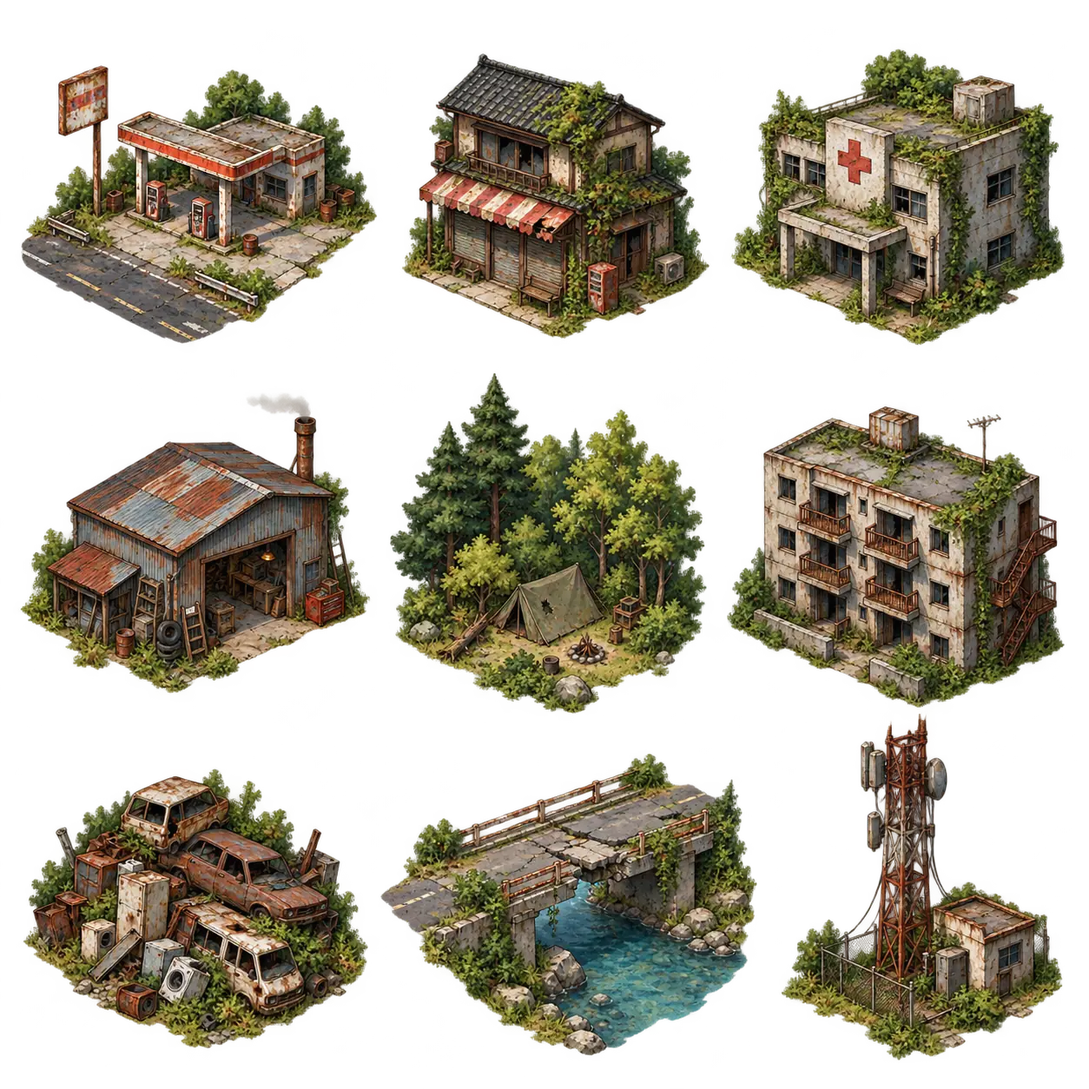
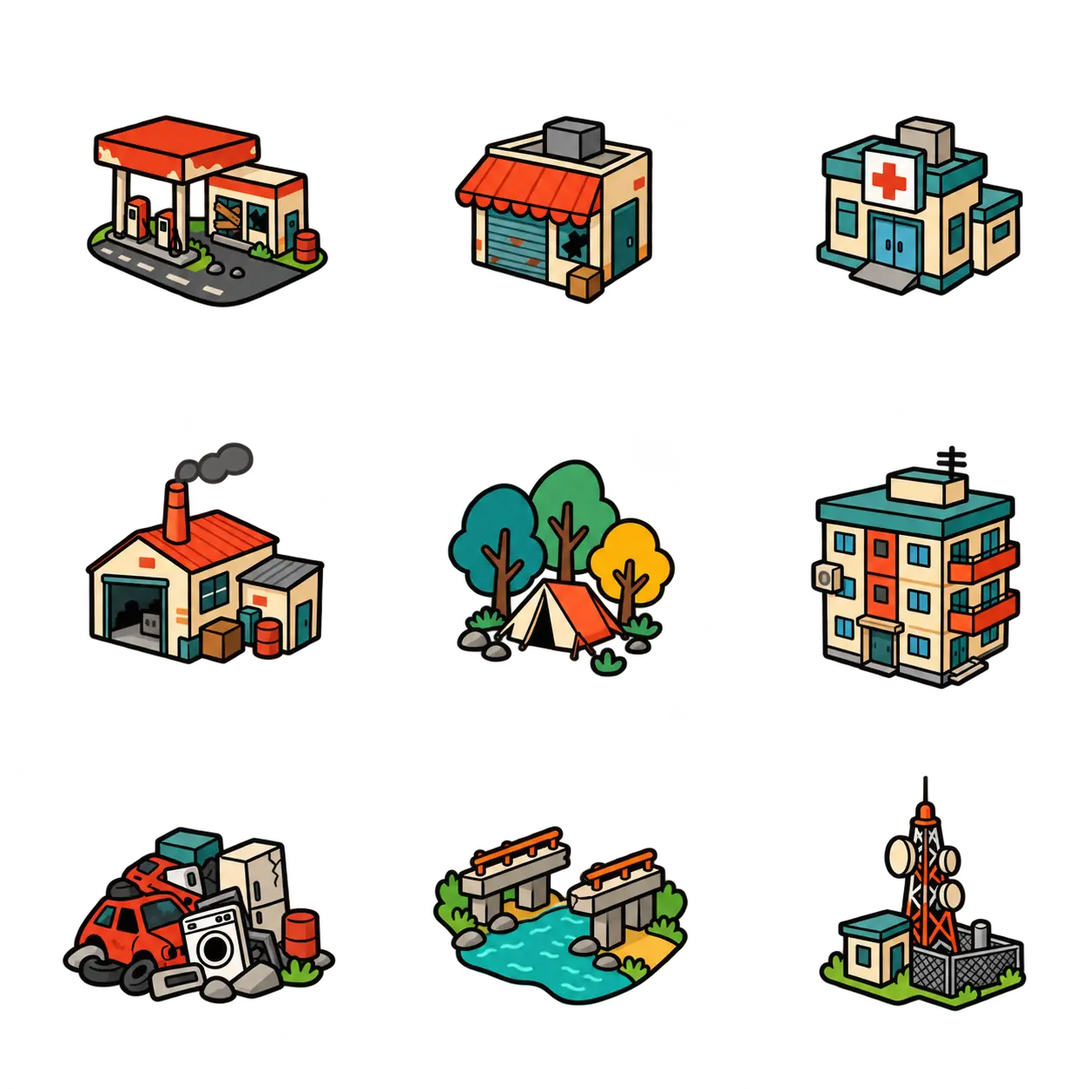
Restore requested bold toon art style across all generated game assets (0.1.4)

diff --git a/styles/art.css b/styles/art.css
@@ -1,11 +1,11 @@
-.painted-atlas{display:block;background-repeat:no-repeat;flex-shrink:0}.symbol-icon{display:inline-flex;justify-content:center;align-items:center;font-family:system-ui,sans-serif;font-size:21px;font-weight:500;line-height:1}.painted-van-icon{background:url('../assets/art/van.webp') center/contain no-repeat}
-.brand>.painted-van-icon{padding:0;background-image:url('../assets/art/van.webp');background-size:contain;background-repeat:no-repeat;background-position:center}.scene-story{display:none}
+.painted-atlas{display:block;background-repeat:no-repeat;flex-shrink:0}.symbol-icon{display:inline-flex;justify-content:center;align-items:center;font-family:system-ui,sans-serif;font-size:21px;font-weight:500;line-height:1}.painted-van-icon{background:url('../assets/art/van.webp?v=0.1.4') center/contain no-repeat}
+.brand>.painted-van-icon{padding:0;background-image:url('../assets/art/van.webp?v=0.1.4');background-size:contain;background-repeat:no-repeat;background-position:center}.scene-story{display:none}
 .painted-character{display:block;position:relative;aspect-ratio:2/3;isolation:isolate;filter:drop-shadow(0 4px 4px #152c2344)}.painted-character .outfit{position:absolute;inset:0;z-index:2}.held-weapon{position:absolute;z-index:1;pointer-events:none}.painted-character.portrait{height:calc(100% - 18px);width:auto;margin:0 auto}.portrait-frame:before{display:none}.portrait-frame{background:radial-gradient(ellipse at center,#849b7755,transparent 72%)}
 .painted-scene{position:relative;overflow:hidden;width:100%;height:100%;min-height:150px;isolation:isolate}.scene-backdrop{position:absolute;inset:0;container-type:size;overflow:hidden}.scene-background{position:absolute;width:max(100cqw,177.78cqh);height:max(56.25cqw,100cqh);left:50%;top:50%;transform:translate(-50%,-50%)}.scene-shade{position:absolute;inset:45% 0 0;background:linear-gradient(transparent,#162b2340)}
 .scene-player{position:absolute;bottom:9%;height:74%;max-height:300px;aspect-ratio:2/3;z-index:3}.scene-player>.painted-character{height:100%;width:100%}.scene-van{position:absolute;right:6%;bottom:10%;width:42%;z-index:2}.painted-van{display:block;position:relative;filter:drop-shadow(0 5px 5px #102b2444)}.painted-van>img{width:100%;height:auto;display:block}.van-upgrades{position:absolute;left:8%;bottom:0;display:flex;gap:3px;padding:3px 5px;border-radius:5px;background:#20352cdb;color:#f4edd2}.van-upgrades .icon{width:16px;height:16px;font-size:15px}.camp-art .scene-van{width:58%;right:2%;bottom:8%}.camp-art .scene-player{left:10%;height:76%}.scene-enemy{position:absolute;bottom:9%;height:74%;aspect-ratio:1;max-height:300px;z-index:3}.scene-enemy .painted-enemy{width:100%;height:100%}.combat-art .scene-player{bottom:19%;height:74%}.combat-art .scene-enemy{bottom:19%;height:74%}
-.item-art{width:58px;height:87px;aspect-ratio:2/3;object-fit:contain}.armor-art{display:block;position:relative;width:62px;height:85px;overflow:hidden;flex-shrink:0}.armor-outfit{position:absolute;aspect-ratio:2/3;width:100%;height:auto}.head-gear .armor-outfit{width:135px;height:202.5px;left:-37px;top:-4px}.body-gear .armor-outfit{width:90px;height:135px;left:-14px;top:-27px}.item-head{min-height:90px}.item-head .item-art{background-color:transparent}
+.item-art{width:58px;height:87px;aspect-ratio:2/3;object-fit:contain}.armor-art{display:block;position:relative;width:62px;height:85px;overflow:hidden;flex-shrink:0}.armor-outfit{position:absolute;aspect-ratio:2/3;width:100%;height:auto}.head-gear .armor-outfit{width:90px;height:135px;left:-14px;top:-2px}.body-gear .armor-outfit{width:90px;height:135px;left:-14px;top:-73px}.item-head{min-height:90px}.item-head .item-art{background-color:transparent}
 .card-illustration{width:100%;aspect-ratio:1;border-radius:5px}.action-card .card-art{padding:0;margin:5px 0;height:55px;overflow:hidden;border-radius:5px}.action-card .card-illustration{height:55px;width:55px}.intent-card .card-art{padding:0;height:27px;margin:3px 0;overflow:hidden;border-radius:3px}.intent-card .card-illustration{height:27px;width:27px}
-.world-map.terrain-map{position:relative;padding:0;overflow:hidden;background:#d9d6b6}.region-map.painted-map{position:relative;width:100%;height:195px;max-height:none;min-height:170px;background:url('../assets/art/terrain.webp') center/cover no-repeat}.map-roads{position:absolute;inset:0;width:100%;height:100%;pointer-events:none}.painted-map .map-node{position:absolute;width:104px;height:65px;min-height:0;padding:0;transform:translate(-50%,-45%);display:flex;flex-direction:column;align-items:center;justify-content:flex-end;background:none;border:0;border-radius:12px;opacity:1;gap:0;font-size:14px;font-weight:700;z-index:2;line-height:1.3;cursor:default}.painted-map .map-node:disabled{opacity:1}.painted-map .map-node.reachable{cursor:pointer}.painted-map .map-node:hover{transform:translate(-50%,-45%)}.painted-map .map-node.reachable:hover,.painted-map .map-node:focus-visible{background:#fff0ae55;box-shadow:0 0 0 2px #a87536}.painted-map .landmark{width:60px;height:60px;position:absolute;bottom:14px;left:22px;filter:drop-shadow(0 2px 2px #233b2860)}.painted-map .map-label{display:block;max-width:104px;padding:2px 6px;background:#f5eed6eF;border:1px solid #91a277;border-radius:5px;z-index:1;font-size:14px;color:#37573e;overflow:hidden;white-space:nowrap;text-overflow:ellipsis;line-height:1.2}.painted-map .current .map-label{background:#365f47;color:#fff4d5;border-color:#f0d884}.painted-map .unknown .map-label{font-size:14px;color:#607357;background:#e0e4c6e0}.unseen-mark{font-size:24px;color:#5a7355;background:#d5dcc088;width:30px;border-radius:50%;text-align:center;position:absolute;bottom:21px;left:37px}.location-pin{position:absolute;top:-2px;left:46px;width:12px;height:12px;border-radius:50%;background:#edc466;border:2px solid #365b3e}.home-pin{position:absolute;top:10px;right:11px;font-size:17px;color:#624d29;background:#f4d78c;border-radius:4px;width:21px;height:21px;line-height:1.2}.map-north{position:absolute;right:8px;top:5px;color:#354f36;font-size:13px;font-weight:700}
+.world-map.terrain-map{position:relative;padding:0;overflow:hidden;background:#d9d6b6}.region-map.painted-map{position:relative;width:100%;height:195px;max-height:none;min-height:170px;background:url('../assets/art/terrain.webp?v=0.1.4') center/cover no-repeat}.map-roads{position:absolute;inset:0;width:100%;height:100%;pointer-events:none}.painted-map .map-node{position:absolute;width:104px;height:65px;min-height:0;padding:0;transform:translate(-50%,-45%);display:flex;flex-direction:column;align-items:center;justify-content:flex-end;background:none;border:0;border-radius:12px;opacity:1;gap:0;font-size:14px;font-weight:700;z-index:2;line-height:1.3;cursor:default}.painted-map .map-node:disabled{opacity:1}.painted-map .map-node.reachable{cursor:pointer}.painted-map .map-node:hover{transform:translate(-50%,-45%)}.painted-map .map-node.reachable:hover,.painted-map .map-node:focus-visible{background:#fff0ae55;box-shadow:0 0 0 2px #a87536}.painted-map .landmark{width:60px;height:60px;position:absolute;bottom:14px;left:22px;filter:drop-shadow(0 2px 2px #233b2860)}.painted-map .map-label{display:block;max-width:104px;padding:2px 6px;background:#f5eed6eF;border:1px solid #91a277;border-radius:5px;z-index:1;font-size:14px;color:#37573e;overflow:hidden;white-space:nowrap;text-overflow:ellipsis;line-height:1.2}.painted-map .current .map-label{background:#365f47;color:#fff4d5;border-color:#f0d884}.painted-map .unknown .map-label{font-size:14px;color:#607357;background:#e0e4c6e0}.unseen-mark{font-size:24px;color:#5a7355;background:#d5dcc088;width:30px;border-radius:50%;text-align:center;position:absolute;bottom:21px;left:37px}.location-pin{position:absolute;top:-2px;left:46px;width:12px;height:12px;border-radius:50%;background:#edc466;border:2px solid #365b3e}.home-pin{position:absolute;top:10px;right:11px;font-size:17px;color:#624d29;background:#f4d78c;border-radius:4px;width:21px;height:21px;line-height:1.2}.map-north{position:absolute;right:8px;top:5px;color:#354f36;font-size:13px;font-weight:700}
 @media(min-width:721px) and (max-width:1100px){.painted-map .map-node{width:76px;height:58px}.painted-map .landmark{left:13px;width:50px;height:50px}.painted-map .map-label{max-width:76px}.painted-map .unseen-mark{left:23px}.painted-map .location-pin{left:32px}.painted-map .home-pin{right:1px}.region-map.painted-map{height:175px}}
 @media(max-width:720px){.scene-player{height:65%;left:7%!important;bottom:11%}.scene-van{width:54%;right:1%;bottom:13%}.scene-enemy{height:62%;right:3%!important}.camp-art .scene-van{width:65%}.camp-art .scene-player{height:60%}.combat-art .scene-player{height:61%;bottom:21%}.combat-art .scene-enemy{height:60%;bottom:21%}.painted-map .map-node{width:66px;height:61px}.painted-map .map-label{font-size:14px;max-width:68px;padding:2px 3px}.painted-map .landmark{width:49px;height:49px;left:8px;bottom:17px}.painted-map .unseen-mark{left:18px}.painted-map .location-pin{left:27px}.painted-map .home-pin{right:0;top:11px}.region-map.painted-map{height:240px;min-height:240px}.map-wrap:not(.open) .painted-map{display:none}.action-card .card-art{height:61px}.item-art{width:58px;height:87px}.armor-art{width:62px;height:85px}}
 .intent-card .card-top{padding-left:17px;justify-content:flex-end}.resource-icon{background-color:transparent}

diff --git a/src/art.js b/src/art.js
@@ -11,17 +11,18 @@ export function icon(name,cls='') {
 export const locationKinds=['road','shop','clinic','factory','forest','apart','junk','river','tower'];
 function atlas(file,col,row,cols,rows,cls='',label='',style='') {
   const x=cols>1?col/(cols-1)*100:0,y=rows>1?row/(rows-1)*100:0;
-  return `<span class="painted-atlas ${cls}" ${label?`role="img" aria-label="${e(label)}"`:'aria-hidden="true"'} style="background-image:url('./assets/art/${file}.webp');background-size:${cols*100}% ${rows*100}%;background-position:${x}% ${y}%;${style}"></span>`;
+  return `<span class="painted-atlas ${cls}" ${label?`role="img" aria-label="${e(label)}"`:'aria-hidden="true"'} style="background-image:url('./assets/art/${file}.webp?v=0.1.4');background-size:${cols*100}% ${rows*100}%;background-position:${x}% ${y}%;${style}"></span>`;
 }
 const weaponKinds=['broom','knife','pipe','axe','umbrella','shovel'];
 export function weaponArt(item={visual:'broom'},{held=false}={}) {
   const index=Math.max(0,weaponKinds.indexOf(item.visual));
   // Measured grip positions keep a held tool attached while its size changes.
-  const grips={broom:.39,knife:.6,pipe:.54,axe:.65,umbrella:.8,shovel:.5};
+  const grips={broom:.39,knife:.73,pipe:.54,axe:.65,umbrella:.74,shovel:.45};
+  const gripX={broom:.57,knife:.50,pipe:.56,axe:.61,umbrella:.50,shovel:.54};
   const sizes={broom:.8,knife:.42,pipe:.78,axe:.62,umbrella:.78,shovel:.85};
   const size=sizes[item.visual]||.8,long=item.modifiers?.includes('long')?1.12:1;
-  const height=size*long*100,top=50-(grips[item.visual]||.5)*height;
-  return atlas('weapons',index%3,Math.floor(index/3),3,2,held?'held-weapon':'item-art',held?'':item.name||'武器',held?`height:${height}%;width:${height}%;top:${top}%;left:${88-height/2}%;`:'');
+  const height=size*long*100,top=68-(grips[item.visual]||.5)*height;
+  return atlas('weapons',index%3,Math.floor(index/3),3,2,held?'held-weapon':'item-art',held?'':item.name||'武器',held?`height:${height}%;width:${height}%;top:${top}%;left:${88-(gripX[item.visual]||.5)*height}%;`:'');
 }
 function outfitIndex(head,body) {
   const row=head?.visual==='helmet'?1:head?.visual==='goggles'?2:0;
@@ -42,7 +43,7 @@ export function enemyArt(type) {
   return atlas('enemies',index,0,3,1,`painted-enemy ${type}`,type==='dog'?'野犬':type==='robot'?'保守ロボット':'敵の拾荒者');
 }
 export function vanArt(state) {
-  return `<span class="painted-van" role="img" aria-label="移動拠点スズメ号、${state.modules.length}設備"><img src="./assets/art/van.webp" alt="" decoding="async">${state.modules.length?`<span class="van-upgrades" aria-hidden="true">${state.modules.map(id=>icon({bed:'bed',storage:'bag',filter:'water',workbench:'gear',engine:'action'}[id])).join('')}</span>`:''}</span>`;
+  return `<span class="painted-van" role="img" aria-label="移動拠点スズメ号、${state.modules.length}設備"><img src="./assets/art/van.webp?v=0.1.4" alt="" decoding="async">${state.modules.length?`<span class="van-upgrades" aria-hidden="true">${state.modules.map(id=>icon({bed:'bed',storage:'bag',filter:'water',workbench:'gear',engine:'action'}[id])).join('')}</span>`:''}</span>`;
 }
 export function landmarkArt(kind) {
   const i=Math.max(0,locationKinds.indexOf(kind));

diff --git a/src/main.js b/src/main.js
@@ -128,7 +128,7 @@ function render() {
   else if(tab==='inventory'){main=inventoryMain();controls=inventoryControls();}
   else if(tab==='journal'){main=journalMain();controls=exploreControls();}
   else {main=exploreMain();controls=exploreControls();}
-  app.innerHTML=`<div class="game-shell ${state.combat?'combat-mode':''}">${header()}${navigation()}<div class="mobile-hud">${gauges(currentActor(),true)}${abilityTiles(currentActor())}</div>${saveError?`<div class="save-warning" role="alert">${e(saveError)}</div>`:''}<div class="game-layout">${survivor()}${main}${controls}</div><footer class="footer"><span>走る家と、終わった世界。</span><span>EARLY BUILD 0.1.3 · ${state.region}つ目の街</span></footer>${state.combat&&!state.combat.result?`<div class="mobile-combat-dock"><span>${state.combat.plan.length} / ${state.combat.limits.action} 行動<small>${playing?'解決中':'距離 '+shownBattle().distance}</small></span>${state.combat.resolved?button('nextRound','次のラウンドへ',{cls:'primary',disabled:playing}):button('resolve',playing?'解決中…':'この行動列で実行',{cls:'primary',disabled:playing||!state.combat.plan.length})}</div>`:''}</div>`;
+  app.innerHTML=`<div class="game-shell ${state.combat?'combat-mode':''}">${header()}${navigation()}<div class="mobile-hud">${gauges(currentActor(),true)}${abilityTiles(currentActor())}</div>${saveError?`<div class="save-warning" role="alert">${e(saveError)}</div>`:''}<div class="game-layout">${survivor()}${main}${controls}</div><footer class="footer"><span>走る家と、終わった世界。</span><span>EARLY BUILD 0.1.4 · ${state.region}つ目の街</span></footer>${state.combat&&!state.combat.result?`<div class="mobile-combat-dock"><span>${state.combat.plan.length} / ${state.combat.limits.action} 行動<small>${playing?'解決中':'距離 '+shownBattle().distance}</small></span>${state.combat.resolved?button('nextRound','次のラウンドへ',{cls:'primary',disabled:playing}):button('resolve',playing?'解決中…':'この行動列で実行',{cls:'primary',disabled:playing||!state.combat.plan.length})}</div>`:''}</div>`;
   paintMap(app.querySelector('.painted-map'),state);
 }
 function openDialog(title,body) {

diff --git a/index.html b/index.html
@@ -6,12 +6,12 @@
   <meta name="theme-color" content="#192b2c">
   <meta name="description" content="終わった世界を、拾ったガラクタと小さな移動拠点で生き延びる。探索とカード戦闘のサバイバルゲーム。">
   <title>拾荒者クロニクル — 走る家と、終わった世界</title>
-  <link rel="icon" href="./assets/art/van.webp" type="image/webp">
+  <link rel="icon" href="./assets/art/van.webp?v=0.1.4" type="image/webp">
   <link rel="stylesheet" href="./styles/game.css">
   <link rel="stylesheet" href="./styles/layout.css">
   <link rel="stylesheet" href="./styles/improvements.css">
   <link rel="stylesheet" href="./styles/readability.css">
-  <link rel="stylesheet" href="./styles/art.css">
+  <link rel="stylesheet" href="./styles/art.css?v=0.1.4">
 </head>
 <body>
   <div id="app"><p class="boot">走る家を準備しています…</p></div>

diff --git a/docs/art-assets.md b/docs/art-assets.md
@@ -1,111 +1,118 @@
-# 0.1.3 生成画像素材
+# 0.1.4 トゥーン系の生成画像素材
 
-組み込みの画像生成ツールで作成。画像の絵柄・差分は生成ツールで制作し、WebPへの形式変換だけImageMagickで実施。透明素材のアルファは維持しています。元の生成PNGは編集していません。
+組み込みの画像生成ツール（built-in imagegen）で制作。元のPNGを編集せず、配信用WebPへの形式変換だけImageMagickで実施。透明素材のアルファを維持。
+
+## 絵柄の必須条件
+
+ユーザー指定のパワーパフガールズ風のトゥーン系が制作基準。オリジナルのキャラクターを、大きな丸い頭と目、短い手足、太い黒輪郭、単純な色面で表現。背景も大きな幾何形状で整理。水彩・写実・通常のアニメ体型・3Dへ変更しない。絵柄を別の雰囲気に置き換える解釈をしない。
+
+## 最終素材
+
+| 配信用ファイル | 生成PNG |
+|---|---|
+| `assets/art/backgrounds.webp` | `/workspace/scratch/9c8a2d707cd7/generated_images/exec-a07e32f8-ad97-4b34-8bc9-dc43960efbaf.png` |
+| `assets/art/player-outfits.webp` | `/workspace/scratch/9c8a2d707cd7/generated_images/exec-f5a6f354-ab24-4186-b794-79f2ccde0563.png` |
+| `assets/art/weapons.webp` | `/workspace/scratch/9c8a2d707cd7/generated_images/exec-3cf05ad6-7b8e-4208-a630-0ae55f14d549.png` |
+| `assets/art/enemies.webp` | `/workspace/scratch/9c8a2d707cd7/generated_images/exec-36ca27c6-d81d-429a-bc9d-82ffbed7bfdb.png` |
+| `assets/art/van.webp` | `/workspace/scratch/9c8a2d707cd7/generated_images/exec-472ddf07-27f1-4514-a752-e305122624e3.png` |
+| `assets/art/terrain.webp` | `/workspace/scratch/9c8a2d707cd7/generated_images/exec-ce02f92b-9610-40e8-9196-3bad33f7fa20.png` |
+| `assets/art/landmarks.webp` | `/workspace/scratch/9c8a2d707cd7/generated_images/exec-6b929d4b-cf37-467b-9956-75d11131ae12.png` |
+| `assets/art/cards.webp` | `/workspace/scratch/9c8a2d707cd7/generated_images/exec-3fe7fed2-49a6-47c7-9710-d17e03b20177.png` |
+| `assets/art/resources.webp` | `/workspace/scratch/9c8a2d707cd7/generated_images/exec-923f317e-cca7-4e11-8ea6-62e012e570a1.png` |
 
 ## backgrounds
 
+### backgrounds-simple
+
 ```text
-Use case: stylized-concept.
-Asset type: production background atlas for a Japanese post-apocalyptic scavenging game, raster illustration, not UI.
-Create ONE high-resolution landscape image, ideally 3072x1728 pixels, divided into exactly 3 columns and 3 rows of equal 16:9 background panels with NO gutters, NO borders and NO text. Nine distinct backgrounds. Reading order:
-row1: cracked abandoned highway with weeds and disused petrol station; shuttered small Japanese shopping street; vine-covered small abandoned clinic with faded red cross.
-row2: silent small industrial workshop with rusty machines and chimney; deep green woodland with a winding trail and abandoned tent; windowless aging Japanese apartment blocks.
-row3: scrapyard with piles of old cars and household appliances; muddy riverside below a damaged concrete bridge; abandoned communications tower and small utility building.
-Each panel must be a separate coherent landscape with horizon in upper half and empty foreground path in bottom third for game characters. No people, no animals, no vehicles prominently occupying foreground, no legible signage. Beautiful expressive painted gouache and ink game concept art, soft atmospheric light, detailed foliage and worn concrete, earthy greens, warm creams, rust-orange accents, slightly whimsical melancholy survival world. Subtle visible brushwork and rich depth; never flat geometric vector shapes, no pixel art, no watermarks. All nine panels fill their cell edge-to-edge.
+REMAKE game background atlas in EXTREMELY SIMPLE flat 1960s-UPA / Powerpuff Girls TV cartoon BACKGROUND style. Not anime scenery. Nine panels exact 3x3 atlas, each panel16:9, overall16:9canvas. Entire panels edge-to-edge NO gutters or borders. Chunky off-kilter angular buildings, thick jet-black outer contours, giant simple geometric color fields, trees as simple three-lobed silhouettes, grass as only a few bold spikes. MAXIMUM 15-25 large shapes per panel. Flat cream, teal, orange and sage palette. Absolutely NO tiny rubble, texture marks, detailed leaves, scratches, detailed windows, realistic perspective, gradients, soft shading, atmospheric painting or watercolor. Simple abandoned-world stage with clear open flat foreground bottom third for separate actors. No people, animals or campervan. Row1 highway and abandoned gas station; shuttered small shopfront street; tiny red-cross clinic. Row2 squat workshop with chimney; simple forest and tent; leaning apartment blocks. Row3 cartoon car/appliance scrap pile; tiny blue river under broken bridge; short communications mast and hut. Very graphic clean minimalist TV animation set backgrounds, bold large flat shapes.
 ```
 
-## player_outfits
+## player-outfits
+
+### player
 
 ```text
-Use case: stylized-concept.
-Asset type: one transparent production sprite atlas for a Japanese scavenging survival game.
-Create ONE image with exactly 4 columns by 3 rows of evenly sized portrait cells, twelve full-body sprites of the SAME young adult androgynous scavenger, short tousled dark hair, amber brown eyes, neck scarf, worn trousers and boots, small canvas backpack. Expressive painted anime game character, 3.5 heads tall, readable silhouette, warm earthy palette, detailed gouache and ink brushwork, pleasing design, not geometric vector art, not photorealistic.
-All sprites in the identical front three-quarter pose facing slightly toward image right, standing, eyes looking right. Head at same height, feet on same baseline within every cell. Each figure centered inside its cell with generous transparent margin; no overlap between cells. Right arm on IMAGE RIGHT held slightly away from hip, empty hand curled to grip a separate weapon; LEFT arm relaxed. No weapons.
-The 4 columns specify clothing: column1 teal work jacket, column2 orange padded puffer coat, column3 dark slate protective vest over gray shirt, column4 mustard yellow raincoat.
-The 3 rows specify headgear: row1 rusty red baseball cap, row2 ochre construction hard hat, row3 old brass and green goggles worn on forehead WITHOUT any hat.
-Important: exactly TWELVE sprites, row1 all four coats wearing red caps, row2 all four coats wearing hard hats, row3 all four coats wearing goggles. Preserve the same identity, pose, scale and placement. Entire background genuinely transparent with alpha, no checkerboard, no white matte, no panels or borders, no text, no labels, no watermark. High resolution atlas ideally 2048x2304. Each head-to-toe sprite fully inside its cell.
+Create a production transparent PNG SPRITE ATLAS for an original survival game. STRICT visual style: Powerpuff Girls-like late-1990s flat 2D TV cartoon language. Huge round heads, ENORMOUS simple expressive black-and-white eyes, tiny torsos and extremely short stubby arms and legs, about TWO heads tall. Very thick smooth BLACK contours, bold simple geometric silhouettes, completely FLAT solid fills, at most one hard-edged shadow. Absolutely NO watercolor, brush texture, painterly shading, realism, 3D, gradients or conventional anime anatomy. Original character, not any existing Powerpuff character. Warm cream, sage teal, rusty orange, mustard palette.
+EXACT 4 columns by 3 rows of equal portrait cells, each cell aspect 2:3; overall canvas aspect 8:9. Twelve complete full-body sprites, same scale, same baseline, identical pose. Every sprite fully inside its cell with generous empty transparent padding; no lines, labels or borders. Protagonist is a cute determined scavenger with short dark hair, giant eyes, rust scarf, tiny brown boots and small backpack, facing viewer's RIGHT in three-quarter view. Hand on image RIGHT is EMPTY and held just forward beside the waist, ready to hold a separate vertical tool. No weapons. ROW 1 all wear rusty red cap; ROW 2 all wear mustard construction helmet; ROW 3 all have goggles on forehead and NO hat. COLUMNS consistently: 1 teal workcoat; 2 orange puffer jacket; 3 slate protective vest; 4 mustard raincoat. Make outfit/headgear clearly different and identical protagonist face in all 12. Smooth bold cartoon art with genuinely huge head, huge eyes and tiny body. Clean alpha background.
 ```
 
 ## weapons
 
+### weapons
+
 ```text
-Use case: stylized-concept.
-Asset type: transparent weapon sprite atlas for a painted anime scavenging game.
-One image, exactly 3 columns by 2 rows, six isolated items on genuine transparent alpha. Each equal cell contains just one worn scavenged tool, oriented VERTICALLY, front three-quarter view, fully contained with transparent margins. The hand grip on the shaft must be at the exact CENTER of each cell for compositing onto an empty character hand.
-Reading order: top row rustic straw broom (wooden handle above grip, golden straw bristles below grip), practical steel knife (blade above grip, leather handle below), rusty bent metal pipe; bottom row wooden hand axe (steel axe blade at top), worn blue umbrella open at top with curved shaft handle at bottom, old digging shovel (D-grip at top, wooden shaft, spade blade at bottom).
-Consistent expressive ink and gouache rendering, detailed material wear, warm earthy palette, clean silhouettes, transparent margins at least 10% of each cell. No characters, no hands, no decorative backgrounds, no labels, no text, no white matte, no checkerboard, no borders, no watermark. Do not repeat or omit an item. High-quality raster illustration, not flat SVG style. Ideally 1536x1536.
+Production transparent PNG game item atlas. undefined EXACT 3 columns x2 rows, whole SQUARE canvas, cells portrait aspect2:3. Six vertical isolated complete tools, all safely contained inside cells with 15% alpha padding. ROW1: straw broom with handle above and bristles below; steel knife blade above leather grip; rusty bent pipe. ROW2: hand axe steel blade at top; open BLUE umbrella with hooked handle below; digging shovel D grip above and spade below. Clean graphic shapes, thick black outlines, flat colors, no texture. Each tool's usable grip should sit near the VERTICAL CENTER of the cell. No hands, characters, text, labels, border, background, cast shadow or glow.
+```
+
+### weapons-spacing
+
+```text
+Edit attached six-tool atlas for safe sprite extraction. Maintain EXACTLY 3columns x2rows, square canvas, six same tools in same order and vertical orientation: broom, knife, pipe; axe, open blue umbrella, shovel. Every entire silhouette must fit within CENTRAL70% of its cell, with TRANSPARENT borders around each cell. Scale umbrella down considerably so NO edge crosses into axe or shovel cells. Center each item horizontally. Use thick smooth black outlines and clean solid cartoon colors, remove rust texture speckles and soft gradients, use only simple flat color patches. No background, hands, text, borders or shadows.
 ```
 
 ## enemies
 
+### enemies
+
 ```text
-Use case: stylized-concept. Asset type: transparent enemy sprite atlas for a Japanese painted anime survival RPG.
-ONE wide image, exactly THREE equal columns, one isolated full-body enemy centered in each cell on true transparent alpha. Cell1: lean feral tan dog, alert snarl with teeth, shaggy fur, four paws visible, facing left toward player. Cell2: hostile scrap scavenger, young adult human in battered plum-gray patchwork clothing and rusty red scarf covering mouth, messy dark hair, clutching scavenged club, guarded stance facing left. Cell3: damaged small maintenance robot, moss-green and cream metal casing, rounded rectangular head, two glowing amber eye lenses, improvised mismatched mechanical limbs, antenna, rusty surfaces, stance facing left.
-Style: detailed painted gouache and ink, expressive anime game illustration, 3.5-heads-tall human, earthy palette, subtle highlights, sympathetic but dangerous abandoned-world creatures. All three fully contained in their cell with at least 10% empty transparent margins, feet/paws on same low baseline, no overlapping cells. No ground plane, no environment, no text, no labels, no borders, no checkerboard, no white matte, no watermarks. Rich raster texture, not geometric vector clipart. Ideally 2048x1024.
+Production game SPRITE ATLAS. STRICT Powerpuff Girls-like late-1990s flat 2D TV cartoon visual language: very thick clean BLACK outlines, playful simple geometric shapes, bold flat solid color fills, minimal hard-edged shadows. Huge heads and enormous black-white expressive eyes for creatures, tiny limbs. Original designs. NO painterly or watercolor textures, no gradients, realism, 3D, anime anatomy or realistic detail. Cream, sage teal, rust orange and mustard palette. Transparent PNG, EXACTLY 3 square cells across ONE row, overall 3:1 canvas. Three complete full-body enemies ALL facing viewer LEFT, generous alpha margins. Every silhouette must fit entirely within CENTRAL 75% of its own cell, no overlap across cell boundaries including tails or weapons. LEFT: scruffy tan feral dog, huge round head, massive expressive eyes, tiny legs and curved tail. CENTER: original hostile scavenger with huge round head, giant eyes, rust headscarf, tiny stocky body, green clothes and short club tucked entirely inside cell. RIGHT: damaged sage-green maintenance robot with huge round head and orange round eyes, tiny body and short arms/legs. Bold cute-but-threatening TV-cartoon shapes, clear clean alpha, no background, floor, shadow, border or text.
 ```
 
-## enemy_spacing_edit
+### enemies-spacing
 
 ```text
-Edit target: the attached transparent three-enemy sprite sheet. Preserve all three character identities, clothing, color, style and poses. Re-layout it as a clean production atlas: EXACTLY THREE SQUARE CELLS side by side in a 3:1 aspect-ratio canvas. The dog entirely in left cell, human entirely middle cell, robot entirely right cell. Each whole silhouette INCLUDING tails, clubs, antenna, fingers, feet must fit inside the CENTRAL 75% of its own cell; clear transparent padding on all four sides; absolutely no character or object may cross a cell boundary. Scale each enemy down as necessary. All feet/paws on same baseline at 88% cell height. No cell borders or labels. Genuine transparent background and clean edges. Do not omit or crop any part of an enemy. This is for CSS sprite extraction at 0%, 50%, 100%.
+Edit this enemy atlas ONLY to improve sprite cell safety. Preserve exact character identities, poses, huge eyes and heads, thick black contours and flat cartoon colors. Canvas exactly THREE equal SQUARE CELLS in ONE horizontal row, aspect3:1. Scale ALL three whole characters down to fit ENTIRE silhouettes within CENTRAL70% of each square cell. Dog tail must NOT approach or cross first cell boundary. Raider club must be fully inside middle cell. Robot antenna/claws fully inside right cell. Feet baseline80%cellheight, center horizontally. Genuine alpha transparent margins. No borders, labels, shadows or backgrounds. Absolutely no style change or additional texture.
 ```
 
 ## van
 
+### van
+
 ```text
-Use case: stylized-concept. Asset type: standalone transparent camper van sprite for a Japanese painted survival RPG.
-A small charming patched camper van called home, weathered sage green body with cream lower stripe, rust spots, wood repair panels, curtained side window warmly lit, roof cargo basket with a rolled tarp and wooden crate, two visible dusty wheels. Full vehicle, front three-quarter view facing RIGHT, cabin on right, rear on left, perspective close to side view so recognizable game sprite. Paint texture, ink accents, gouache anime background-art quality, rich wear details, soft warm sunlight, nostalgic resourceful abandoned-world mood. Entire silhouette contained with generous 10% transparent margins, no ground, no backdrop, no characters, no text, no label, no lettering, no watermark. Genuine transparent alpha with no checkerboard or white matte. Wide image ideally 1536x1024. Must look illustrated and tactile, not geometric vector clipart.
+Production game asset, single original patched sage green and cream CAMPER VAN, facing viewer RIGHT, broadside three-quarter view. STRICT Powerpuff Girls-like late-1990s flat 2D TV cartoon visual language: very thick clean BLACK outlines, playful simple geometric shapes, bold flat solid color fills, minimal hard-edged shadows. Huge heads and enormous black-white expressive eyes for creatures, tiny limbs. Original designs. NO painterly or watercolor textures, no gradients, realism, 3D, anime anatomy or realistic detail. Cream, sage teal, rust orange and mustard palette. Very chunky rounded cartoon body, big simple wheels, warm orange window, little rooftop crate and folded tarp, one cheerful bird sticker. Entire complete silhouette comfortably inside canvas with 12% transparent margins. No people, no text, no ground, no glow, no cast shadow, no background. Transparent PNG, landscape 3:2 canvas. Flat outlined TV cartoon vehicle with simple graphic details.
+```
+
+### van-clean
+
+```text
+Edit attached cartoon van. Keep the exact vehicle silhouette, bird sticker, direction and thick black contours. Flatten all colors into clean solid color fills with a single hard-edged shadow tone: no gradients or soft illumination. REMOVE EVERY glow, halo, haze, shadow and colored pixels OUTSIDE the black vehicle silhouette. Outside contours must be purely TRANSPARENT alpha, including space around roof, wheels and bumpers; no soft colored halo whatsoever. Keep entire van inside canvas, landscape3:2. Clean TV cartoon production sprite for compositing.
 ```
 
 ## terrain
 
+### terrain-simple
+
 ```text
-Use case: stylized-concept. Asset type: illustrated terrain background for a clickable procedural survival game map.
-A wide bird's-eye illustrated map of an overgrown abandoned Japanese rural region. ONLY terrain: patchwork meadows, scrubland, small woodland clusters, subtle ridges, a meandering jade-blue river from top-right to bottom-center, a few tiny rubble patches. Hand-painted gouache and ink on aged cream paper, tasteful earthy greens and ochre, fine terrain detail but low contrast so interactive labels can be overlaid. Wide composition 3:1, ideally 2048x768. No roads, no paths, no buildings, no landmarks, no vehicles, no people, no text, no grid, no labels, no compass rose, no borders. Leave open grassland across center for procedural road network and facility markers. Fill edge to edge; not SVG/vector artwork.
+Production wide3:1 regional-map BACKGROUND for a Powerpuff Girls-like flat TV CARTOON game. EXTREMELY SIMPLE graphic composition: flat sage-green central plain covering70% image, a winding BLUE RIBBON river entering top-right and leaving bottom-center, a FEW small groups of trees at outer edges. Trees are just large three-lobed dark green silhouettes with a single black branching line each. Ridge upperleft just3 simple angular gray triangles. Thick smooth BLACK contours. Colors perfectly solid flat fills, tiny hard shadow patches only. No gradients, painterly grass, small leaves, hundreds of trees, realism, 3D or texture. Use only about25-35 bold large shapes for ENTIRE image. Open empty center for overlay of generated roads/buildings. No roads, buildings, text, grid, pins, UI or characters. Clean opaque raster TV-animation background.
 ```
 
 ## landmarks
 
+### landmarks
+
 ```text
-Use case: stylized-concept. Asset type: transparent map landmark icon atlas for a survival RPG.
-Create ONE square image divided into EXACTLY 3 columns and 3 rows of equally sized square cells. Each cell contains a small ISOMETRIC painted landmark miniature, centered within its central 70% with clear transparent padding, no overlap or border. Detailed gouache and ink, warm abandoned Japan, sage green foliage, rust and cream buildings. Exact reading order:
-Row1 abandoned fuel station and tiny stretch of cracked highway; shuttered Japanese shop with faded striped awning; vine-covered clinic with a red cross sign.
-Row2 small metal-roof workshop with chimney; cluster of woodland trees with small tent; dilapidated apartment block with dark windows.
-Row3 pile of rusty cars and appliances; little damaged concrete river bridge above blue water; rusted communications mast with a tiny utility hut.
-These are discrete isolated painted game map miniatures, NOT scenes occupying the whole cell. All objects fully inside the central 70% of their cell. Background genuinely transparent alpha, no white square panels, no checkerboard, no map, no labels, no text, no watermark. Same consistent isometric angle and scale. Ideally 1536x1536.
+Production transparent PNG MINIATURE MAP LANDMARK ATLAS. STRICT Powerpuff Girls-like late-1990s flat 2D TV cartoon visual language: very thick clean BLACK outlines, playful simple geometric shapes, bold flat solid color fills, minimal hard-edged shadows. Huge heads and enormous black-white expressive eyes for creatures, tiny limbs. Original designs. NO painterly or watercolor textures, no gradients, realism, 3D, anime anatomy or realistic detail. Cream, sage teal, rust orange and mustard palette. EXACT 3 columns x3 rows of equal SQUARE cells, whole square canvas. One isolated complete cartoon isometric building/location in each cell, very simple chunky miniature, only 5-12 main shapes each, thick black outlines, NO realistic texture or foliage detail. Entire miniature INCLUDING tall towers must fit within central65% of cell with clear transparent margins and no overlaps. Row1 abandoned petrol station with small road; shuttered little shop; small red-cross clinic. Row2 small chimney workshop; 3 trees and tent; small apartment building. Row3 scrap car and appliance pile; short broken bridge over a tiny river patch; short stylized communications mast with hut. No letters, text, labels, shadows, floor across cells, borders or background. Readable map icons at50px.
+```
+
+### landmarks-spacing
+
+```text
+Edit attached map landmark atlas only to fix spacing for exact sprite extraction. SAME 3columns x3rows SQUARE CELL grid, same9 buildings in same order, same bold flat cartoon art. SCALE EVERY whole landmark to ONLY60% of a cell's width and60%height maximum (including scrapyard heap, forest trees, factory smoke, bridge river patch and tower antenna). Center each miniature in its own cell with large empty TRANSPARENT MARGIN all around. NO pixels may cross any cell boundary. Preserve true alpha, no borders, no words, no new objects or shadows. Keep existing clean thick black outline cartoon style.
 ```
 
 ## cards
 
+### cards
+
 ```text
-Use case: stylized-concept. Asset type: nine battle-card illustrations in one production atlas.
-Create a square image with exactly 3x3 EQUAL SQUARE panels, NO borders, NO gutters, NO text. Each illustration fills its cell edge to edge and reads as a small card vignette in a Japanese scavenging survival game. Warm painted gouache and ink anime game art, detailed but bold readable compositions, sage green/cream/rust-orange palette, abandoned city world, young short-haired scavenger with teal work jacket and red scarf. Exact reading order:
-row1 advancing boots stepping forward along cracked road; same boots retreating defensively; closeup hand swinging a rusty knife in a single strike.
-row2 dramatic closeup of a worn axe striking with force; gloved hand throwing a stone along an arcing trail; scavenger crouching behind crossed arms and a battered improvised shield.
-row3 calm scavenger sitting and taking a deep breath, hand over chest; thoughtful scavenger with eyes closed and a hand at temple; scavenger running away along a ruined street.
-Each panel is a standalone vignette, nobody crosses panels, no readable letters, no UI or card frame, no numbers, no labels, no watermark. Illustrated paint texture, never SVG or geometric clipart. Ideally 1536x1536.
+Production game action CARD ART ATLAS. STRICT Powerpuff Girls-like late-1990s flat 2D TV cartoon visual language: very thick clean BLACK outlines, playful simple geometric shapes, bold flat solid color fills, minimal hard-edged shadows. Huge heads and enormous black-white expressive eyes for creatures, tiny limbs. Original designs. NO painterly or watercolor textures, no gradients, realism, 3D, anime anatomy or realistic detail. Cream, sage teal, rust orange and mustard palette. Exact3 columns x3 rows equal SQUARE panels, whole square image, opaque each cell edge-to-edge, NO gutters, borders, letters, captions, UI or text. Simple energetic bold flat cartoon action vignettes, colorful solid cream/sage/rust backgrounds. Original cute scavenger with short dark hair, rusty red cap, teal workcoat, enormous round head and HUGE black-white eyes, tiny short body and limbs, TWO heads tall. Consistent character. Row1: boots stepping forward right; boots stepping backward left; protagonist swings a single knife. Row2: protagonist swings handaxe forcefully; protagonist throws one stone; protagonist braces behind improvised shield. Row3: protagonist catches breath with hand on chest; protagonist focuses with hand at temple; protagonist runs away. Bold clear action silhouettes, sparing black motion marks, each action entirely inside its cell, no painterly rendering or conventional anime body proportions.
 ```
 
 ## resources
 
+### resources
+
 ```text
-Use case: stylized-concept. Asset type: six small transparent resource inventory icons for a Japanese scavenging game.
-One 3-column by 2-row atlas, equal square cells, each icon entirely centered in its cell with at least 20% transparent margin and no overlap. Row1: a small worn tin of preserved food with no lettering; a translucent blue water bottle; a pile of useful rusty gears and scrap metal. Row2: a folded roll of olive fabric; a red fuel jerrycan; a cream first aid kit with red cross.
-Gouache and ink anime game item illustration, clear strong silhouettes for display at 24px, warm earthy palette matching a painted abandoned-world RPG, minimal fine details. Each is a standalone object. No labels, no text, no borders, no checkerboard, no drop shadow outside cell, no watermarks, genuine transparent alpha background. Exactly six icons. Square atlas 1024x1024.
+Production transparent PNG game RESOURCE ICON ATLAS. undefined EXACT 3 columns by 2 rows equal cells on a SQUARE canvas. Row1 left FOOD TIN with simple fish graphic, middle WATER BOTTLE with blue fill, right GEARS and metal scrap. Row2 left rolled OLIVE CLOTH, middle orange FUEL JERRY CAN, right cream FIRST AID KIT with single bold RED CROSS. Each complete icon in central70% of cell with empty alpha margins, NO overlaps. Very simple chunky silhouettes readable at 24px, extremely clean thick black contours and flat colors. No text, characters, labels, border, shadow, glow or background.
 ```
-
-## ファイルと用途
-
-| ファイル | 用途 |
-|---|---|
-| assets/art/backgrounds.webp | 9種類の背景、3列×3行 |
-| assets/art/player-outfits.webp | 頭装備3種類×服4種類、4列×3行 |
-| assets/art/weapons.webp | 武器6種類、3列×2行 |
-| assets/art/enemies.webp | 敵3種類、3列×1行 |
-| assets/art/van.webp | 移動拠点 |
-| assets/art/terrain.webp | 地図の地形 |
-| assets/art/landmarks.webp | 地図の施設9種類、3列×3行 |
-| assets/art/cards.webp | 戦闘カード9種類、3列×3行 |
-| assets/art/resources.webp | 資源6種類、3列×2行 |
-
-CSSでアトラスの各区画を表示します。道路の接続のみCanvasで描画し、移動ボタンは通常のHTML要素です。ゲームの乱数を消費しません。武器の「長すぎる」修飾子は持った画像の倍率にも反映します。設備は車に設備バッジを重ねて表示します。

diff --git a/README.md b/README.md
@@ -1,6 +1,6 @@
 # 拾荒者クロニクル / Scavenger Chronicle
 
-終わった世界で、拾った道具と小さな移動拠点を頼りに生き延びる、探索・カード戦闘ゲーム。初期プレイ可能版 **0.1.3**。
+終わった世界で、拾った道具と小さな移動拠点を頼りに生き延びる、探索・カード戦闘ゲーム。初期プレイ可能版 **0.1.4**。
 
 ## 遊べるもの
 
@@ -10,12 +10,18 @@
 - 知覚＝公開する敵予定、判断＝手札枚数、行動＝実行するカード枚数、実効＝攻撃の６面ダイス数。
 - 頭HP・体HP・頭ST・体ST。６の出目は頭に当たり、体HPが尽きるとダメージが頭へ流れる。
 - １アイテムに１〜３個の修飾子がつく。各修飾子には利点と欠点があり、効果を合算する。
-- 装備を反映する主人公、敵３種、探索施設９種、カード９種、拠点設備５種。画像生成で制作した手描き風のラスタ素材。
+- 装備を反映する主人公、敵３種、探索施設９種、カード９種、拠点設備５種。画像生成で制作した、太い黒輪郭・大きな頭と目・短い手足のトゥーン系ラスタ素材。
 - 食料・水・医療品、荷重、休息、設備追加、次の街への移動。
 - 自動保存、JSONセーブの書き出し・読み込み。戦闘途中の手札・敵予定・乱数状態も保存する。
 - PCの横長画面、スマホのフィールド／操作エリアの上下構成。スマホではHP・STを上部に表示し、戦闘の実行ボタンを下端に配置。
 
 数値・カード効果・敵AIは初期調整段階。旧版の全機能を移植したものではなく、新しいゲームの土台です。詳細は [設計](docs/design.md) と [検証結果](docs/validation.md) を参照。
+
+## 0.1.4 の絵柄の修正
+
+- 指定のパワーパフガールズ風のトゥーン系を制作基準に固定。大きな頭と目、短い手足、太い黒い輪郭線、明快な色面でオリジナルのキャラクターと世界を制作。水彩・写実・通常のアニメ体型は使用しない。
+- 9枚すべての素材を再生成し、主人公・敵・装備・拠点・背景・地図・カード・資源の絵柄を統一。頭身の変更に合わせて武器の握り位置と装備アイコンの切り出し位置を修正。
+- 0.1.3で拡大した文字サイズ、PCの1画面構成、操作説明とセーブ互換性を維持。
 
 ## 0.1.3 の文字と生成素材
 

diff --git a/docs/design.md b/docs/design.md
@@ -4,7 +4,7 @@
 
 ポストアポカリプスで生き延びることが主眼。個人の探索と移動式拠点の発展を往復する。カード戦闘は双方が計画してから一括解決する。単一HTMLの制約は外し、GitHub Pagesで動作する静的アプリにする。
 
-0.1.3ではグラフィックを画像生成で制作した手描き風素材へ置換。主人公は頭装備3種類×服4種類の組み合わせをアトラスから表示し、生成した武器を手元へ重ねる。武器の長すぎる修飾子は描画も長くする。設備は拠点の画像にバッジを重ねて反映する。背景・敵・地形・施設・戦闘カード・資源も生成画像を使用し、操作はHTML、地図の道路接続はCanvasで表示。素材とプロンプトは [art-assets.md](art-assets.md) を参照。
+0.1.4では指定のパワーパフガールズ風トゥーン系の絵柄へ修正。大きな頭と目・短い手足・太い黒輪郭・明快な色面を必須とし、水彩・写実・通常のアニメ体型へ変更しない。全素材を画像生成で制作したオリジナルのラスタ画像へ統一。主人公は頭装備3種類×服4種類の組み合わせをアトラスから表示し、生成した武器を手元へ重ねる。武器の長すぎる修飾子は描画も長くする。設備は拠点の画像にバッジを重ねて反映する。背景・敵・地形・施設・戦闘カード・資源も生成画像を使用し、操作はHTML、地図の道路接続はCanvasで表示。素材とプロンプトは [art-assets.md](art-assets.md) を参照。
 
 初版はルールとプレイループを確認するための土台。数値・進行・装備データは独立したモジュールに置き、後から変更する。
 

diff --git a/docs/validation.md b/docs/validation.md
@@ -1,3 +1,16 @@
+# 0.1.4 の検証
+
+実施日：2026-10-05（日本時間）。
+
+- 全9素材を組み込み画像生成で再制作。主人公と敵の頭身・目・輪郭、背景の単純な色面、装備・地図・カード・資源の絵柄を画像で目視確認。アトラスのセルをまたぐ武器・敵・施設は、画像生成で余白を修正。
+- `npm test`：34件成功。12通りの頭装備×服、武器6種類、背景・施設9種類、敵3種類、カード9種類のHTML生成と、表示処理がセーブを変更しないことを確認。
+- `npm run build`、JavaScript構文検査、差分の空白検査に成功。
+- 拡大済みの文字サイズと1画面レイアウトは維持。画像の参照にバージョンを付け、古い絵柄のキャッシュを更新。
+
+実機Android／iOS／Safariと長期の難易度調整は未検証。
+
+---
+
 # 0.1.3 の検証
 
 実施日：2026-10-05（日本時間）。
